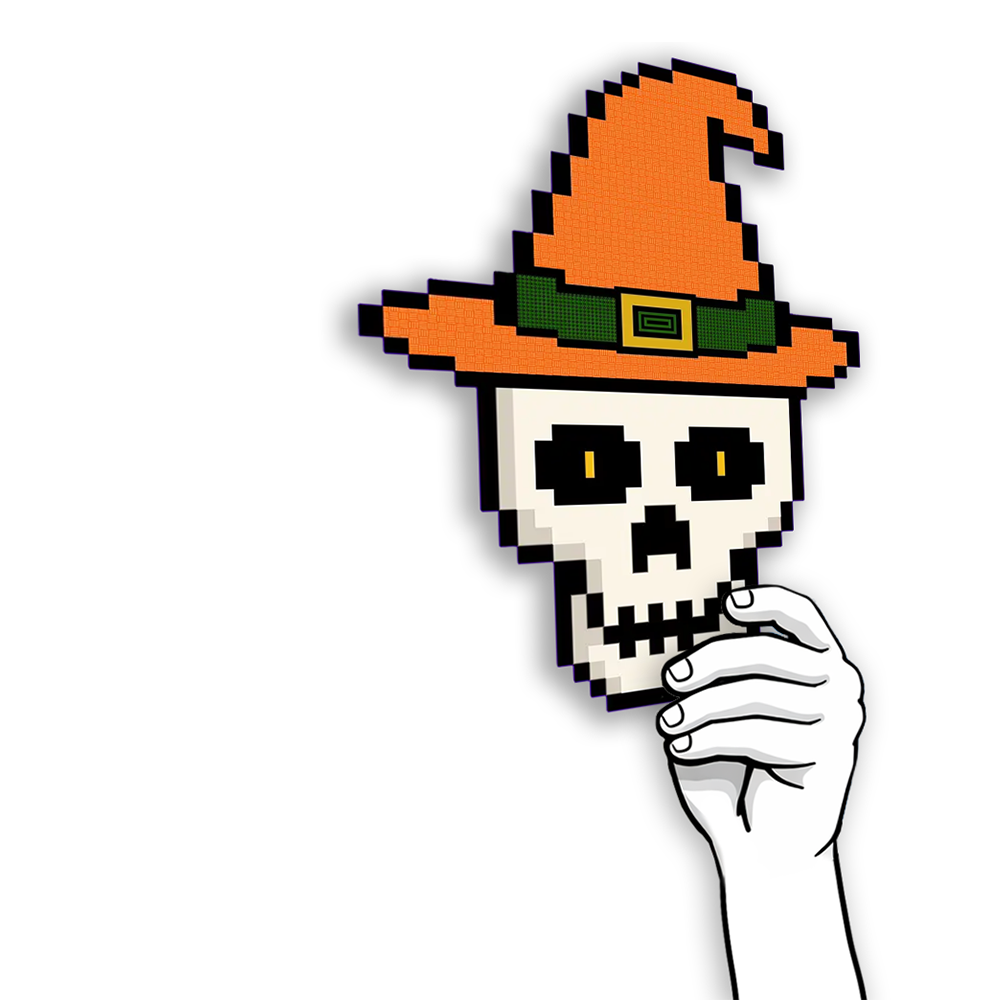
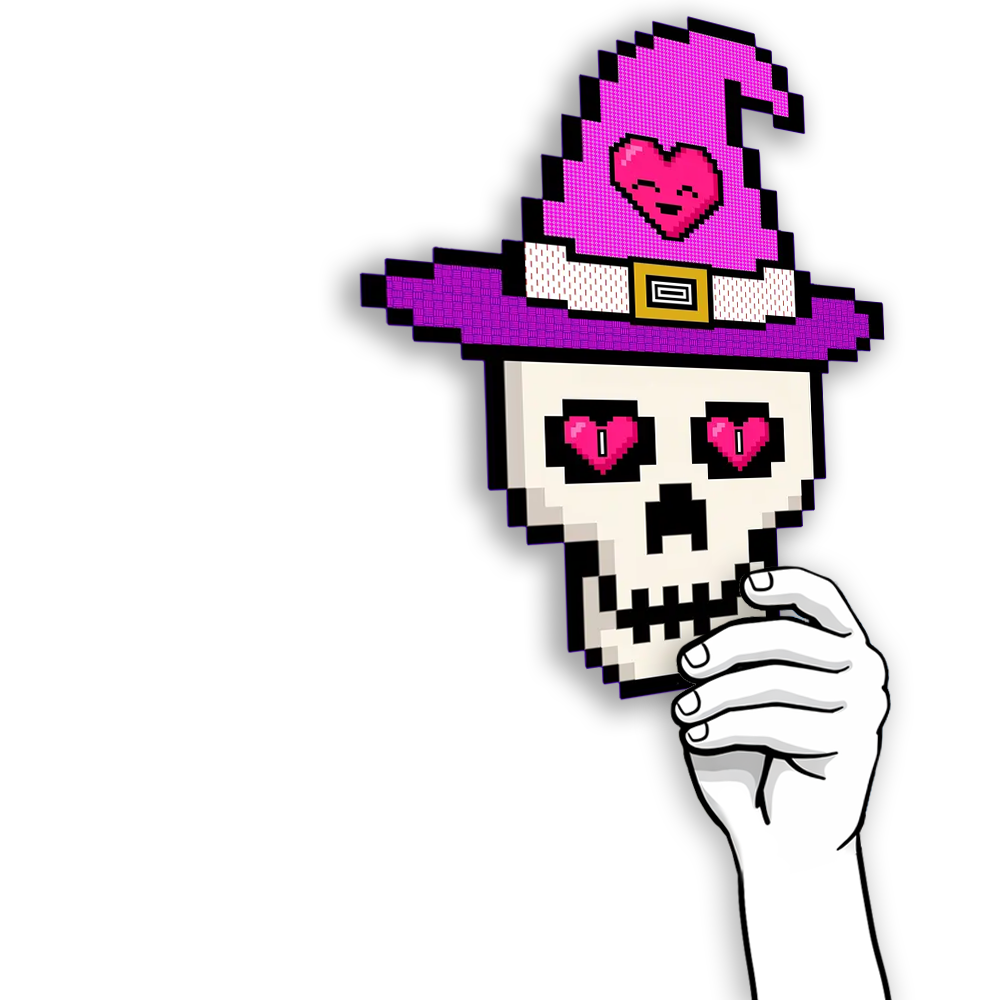
feat: Add Tanginium mask layers and update skull masks
New mask assets:
- Tanginium_king.png
- Tanginium_sad.png

Updated skull mask images with optimized versions.
Updated manifest.json and canvasRenderer.ts for new layers.

Changed region(s): [[0.341, 0.0, 0.899, 1.0]]

diff --git a/src/services/canvasRenderer.ts b/src/services/canvasRenderer.ts
@@ -45,7 +45,7 @@ const NINJA_COVERING_MASKS = ['copium', 'hannibal', 'bandana'];
 /**
  * Full-face masks that render on top of everything (skull masks, fake it mask)
  */
-const FULL_FACE_MASKS = ['skull_mask', 'skull-mask', 'fake_it', 'fake-it', 'medievalbepe'];
+const FULL_FACE_MASKS = ['skull_mask', 'skull-mask', 'fake_it', 'fake-it', 'medievalbepe', 'tanginium'];
 
 /**
  * Heads that need EyesOverHead virtual layer (right half of eyes rendered above head)
